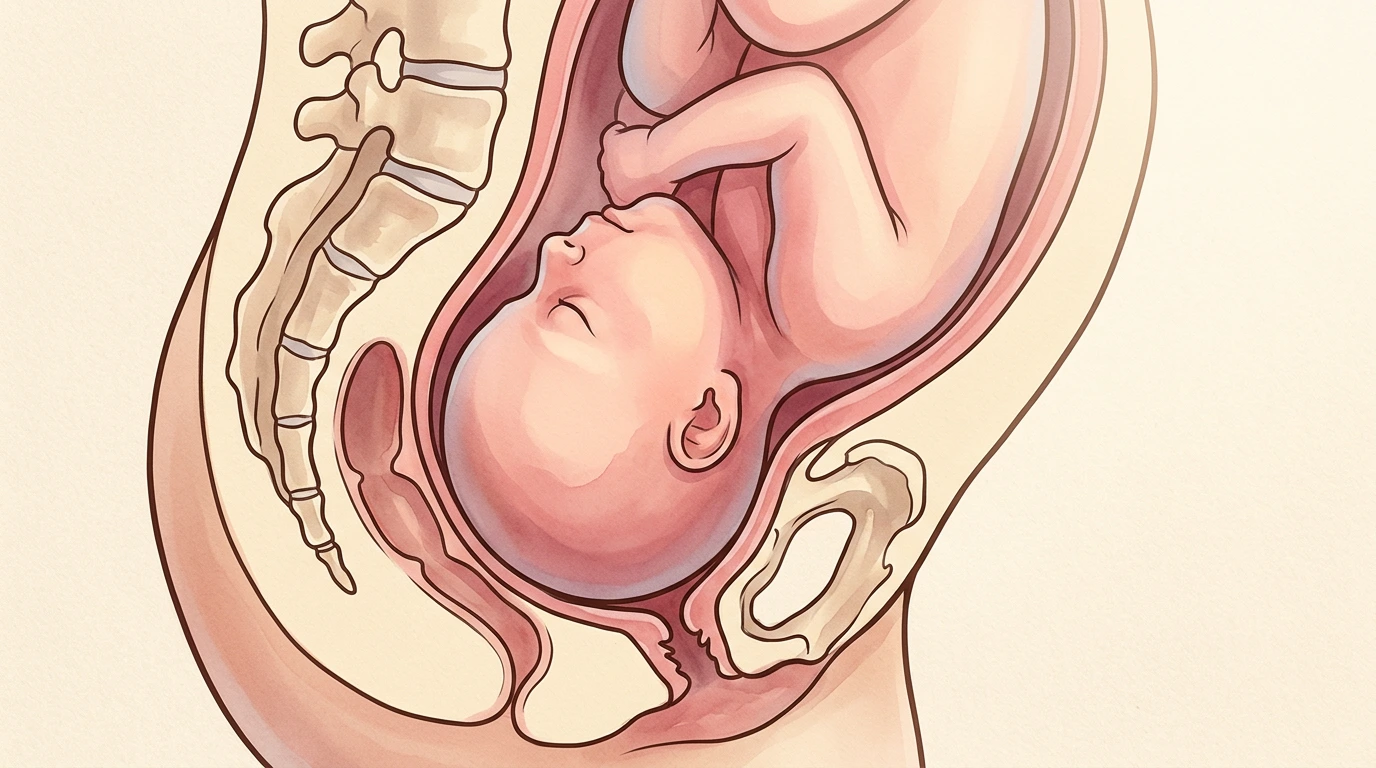
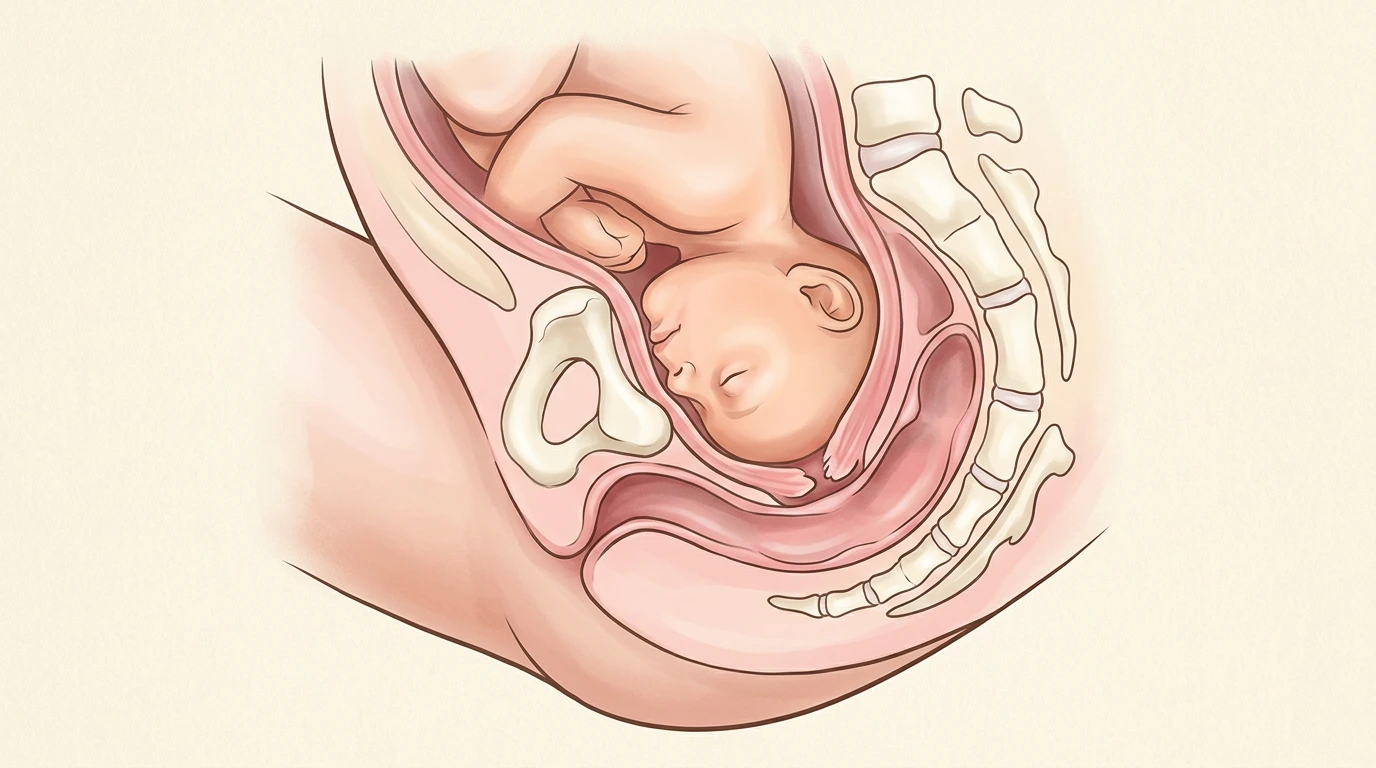
fix: crowning illustration v3 — visible tissue distension, active birth moment; add FAQ schema + lead magnet CTA to article
- Regenerated crowning image via Coverr with emphasis on visible perineal stretching
- Baby OA position (face toward sacrum), chin tucked, occiput under pubic symphysis
- Added FAQPage JSON-LD schema extraction for blog posts with FAQ sections
- Added inline Cardinal Movements Cheat Sheet download CTA in article

diff --git a/scripts/fix_arvada_assets.py b/scripts/fix_arvada_assets.py
@@ -1,0 +1,27 @@
+from PIL import Image, ImageFilter, ImageOps
+from pathlib import Path
+
+src = Path('/tmp/arvada_hero_raw.jpg')
+root = Path('/Users/socializerender/Projects/truejoybirthing-website')
+img = Image.open(src).convert('RGB')
+
+# Preserve the original square composition for the website hero.
+img.save(root / 'public/images/arvada-co-birth-doula-hero-v2.webp', 'WEBP', quality=92, method=6)
+img.resize((600, 600), Image.Resampling.LANCZOS).save(
+    root / 'public/images/arvada-co-birth-doula-hero-v2-600.webp', 'WEBP', quality=88, method=6
+)
+
+# 16:9 YouTube thumbnail: blurred/darkened background plus contained source.
+W, H = 1280, 720
+scale = max(W / img.width, H / img.height)
+bg = img.resize((round(img.width * scale), round(img.height * scale)), Image.Resampling.LANCZOS)
+bg = ImageOps.fit(bg, (W, H), method=Image.Resampling.LANCZOS, centering=(0.5, 0.5))
+bg = bg.filter(ImageFilter.GaussianBlur(18))
+overlay = Image.new('RGBA', (W, H), (25, 20, 18, 105))
+bg = Image.alpha_composite(bg.convert('RGBA'), overlay)
+fg = img.copy()
+fg.thumbnail((H, H), Image.Resampling.LANCZOS)
+bg.alpha_composite(fg.convert('RGBA'), ((W - fg.width) // 2, (H - fg.height) // 2))
+bg.convert('RGB').save(root / 'public/images/arvada-co-youtube-thumbnail-v2.jpg', 'JPEG', quality=94, subsampling=0)
+print('created', img.size, 'hero=(1024,1024)', 'thumbnail=(1280,720)')
+غي = None

diff --git a/scripts/prepare_arvada_v3.py b/scripts/prepare_arvada_v3.py
@@ -1,0 +1,14 @@
+from PIL import Image
+from pathlib import Path
+
+src = Image.open('/tmp/arvada-hero-v3-source.png').convert('RGB')
+root = Path('/Users/socializerender/Projects/truejoybirthing-website')
+w, h = src.size
+crop_w = round(h * 3 / 2)
+left = (w - crop_w) // 2
+hero = src.crop((left, 0, left + crop_w, h)).resize((1200, 800), Image.Resampling.LANCZOS)
+hero.save(root / 'public/images/arvada-co-birth-doula-hero-v3.webp', 'WEBP', quality=93, method=6)
+hero.resize((600, 400), Image.Resampling.LANCZOS).save(root / 'public/images/arvada-co-birth-doula-hero-v3-600.webp', 'WEBP', quality=88, method=6)
+thumb = src.resize((1280, 720), Image.Resampling.LANCZOS)
+thumb.save(root / 'public/images/arvada-co-youtube-thumbnail-v3.jpg', 'JPEG', quality=94, subsampling=0)
+print('source', src.size, 'hero_crop', crop_w, h, 'hero', hero.size, 'thumb', thumb.size)

diff --git a/scripts/prepare_arvada_og_v3.py b/scripts/prepare_arvada_og_v3.py
@@ -1,0 +1,13 @@
+from PIL import Image
+from pathlib import Path
+
+src = Image.open('/tmp/arvada-hero-v3-source.png').convert('RGB')
+root = Path('/Users/socializerender/Projects/truejoybirthing-website')
+# Native 16:9 source -> exact 1200x630 OG crop, preserving geometry.
+w, h = src.size
+og_h = round(w * 630 / 1200)
+top = max(0, (h - og_h) // 2)
+og = src.crop((0, top, w, top + og_h)).resize((1200, 630), Image.Resampling.LANCZOS)
+og.save(root / 'public/images/og-city-arvada-co-v3.webp', 'WEBP', quality=93, method=6)
+print('source', src.size, 'og_crop', (w, og_h), 'og', og.size)
+ց = None

diff --git a/src/content/blog/cardinal-movements-of-labor.md b/src/content/blog/cardinal-movements-of-labor.md
@@ -89,6 +89,14 @@ Not every position supports every cardinal movement. Engagement and early descen
 
 For the later stages, when extension and expulsion are happening, positions that open the pelvic outlet are key. Squatting, supported squatting, or side-lying with a peanut ball can create the space your baby needs to emerge. If you are not sure what positions belong in your plan, the <a href="/birth-plan-template/">Joyful Birth Plan</a> walks you through it step by step. And if you are local, <a href="/birth-support/portland-or/">birth support in Portland, OR</a> or <a href="/birth-support/denver-co/">labor support in Denver, CO</a> can help you practice these positions before the big day.
 
+<div class="not-prose my-10 rounded-2xl border border-tjb-lavender-200 bg-tjb-cream-50 p-6 text-center">
+  <p class="text-sm font-semibold tracking-widest uppercase text-tjb-lavender-500 mb-2">Free Download</p>
+  <h3 class="text-xl font-bold text-tjb-charcoal mb-2">Cardinal Movements Cheat Sheet</h3>
+  <p class="text-sm text-tjb-gray mb-4 max-w-md mx-auto">A one-page printable PDF of all 7 movements with positions to try at each stage. Take it into labor or share it with your birth team.</p>
+  <a href="/resources/cardinal-movements-cheat-sheet.pdf" class="btn-primary" download>Download the Cheat Sheet →</a>
+  <p class="text-xs text-tjb-gray mt-3">Free · No email required · Printable PDF</p>
+</div>
+
 ## Can You Tell If the Cardinal Movements Are Happening?
 
 You cannot see them, but you can often feel them. Engagement sometimes brings a sense of pressure or a visible drop in the belly. As fetal descent continues, pressure increases and the urge to push may build. During fetal rotation, some mothers feel a shift in where the contractions are most intense. When the baby extends under the pubic bone, there is often a strong burning or stretching sensation called the "ring of fire."
